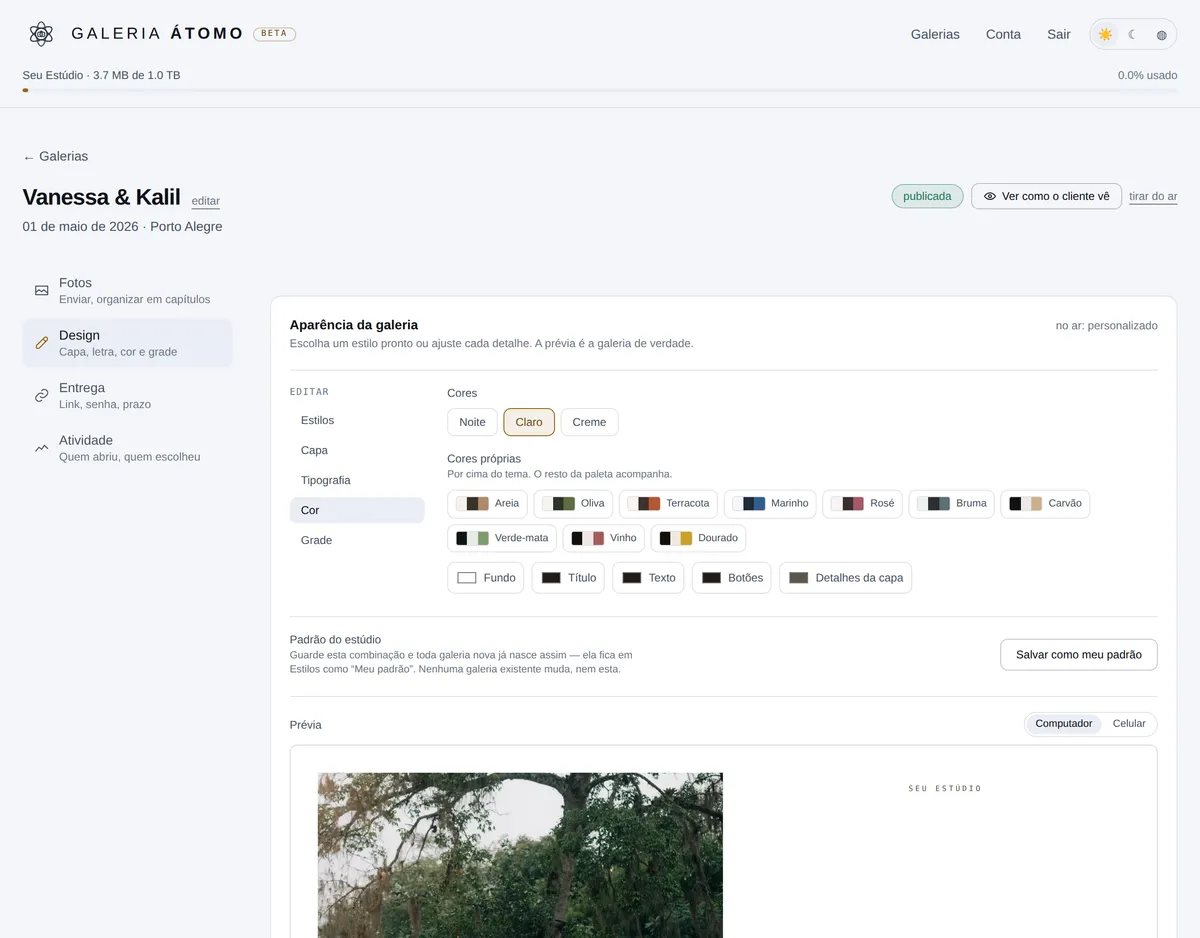
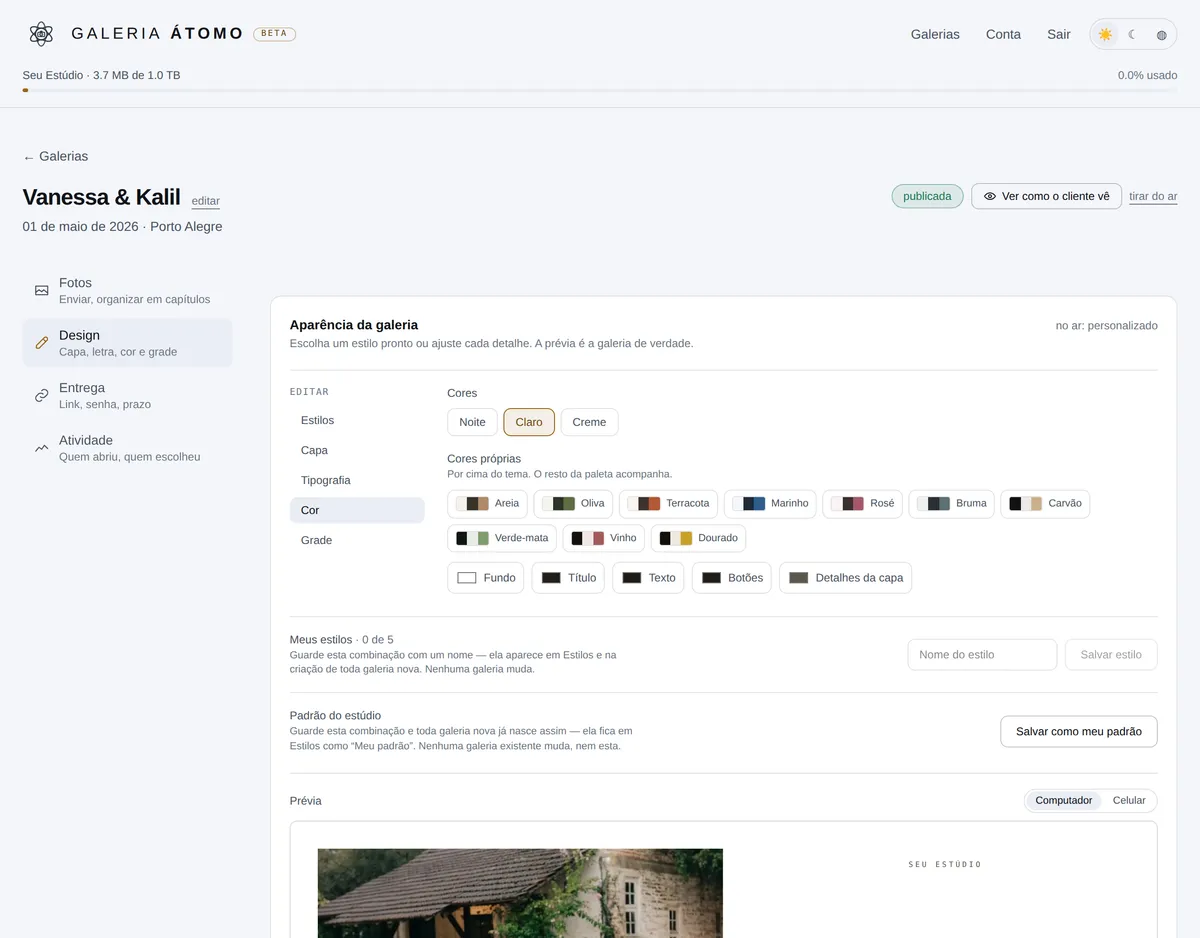
Home: a capa de Vanessa & Kalil passa a ser o retrato na cadeira
O guarda-chuva sai da capa e vai para o lugar 9, entre os retratos — a troca
é só entre os dois lugares, para nenhuma foto trocada pelo admin mudar de
posição. Os prints do painel (design e entrega) foram refeitos com a capa
nova.

Claude-Session: https://claude.ai/code/session_015FWTFqR2s9SVKwAuBmpytA

diff --git a/src/config/home-demonstracao.ts b/src/config/home-demonstracao.ts
@@ -142,9 +142,15 @@ export type IdGaleria = (typeof GALERIAS_DA_HOME)[number];
  */
 const FOTOS_DAS_GALERIAS: Record<IdGaleria, readonly FotoDemo[]> = {
   /* Na ordem do dia: a noiva pronta, a entrada, a cerimônia, a saída, os
-     retratos, a festa. */
+     retratos, a festa.
+
+     A CAPA É O RETRATO NA CADEIRA (29/09/2026). Felipe, com o print da home
+     e a foto: "mude a capa da primeira imagem, para a da segunda". Era o
+     guarda-chuva, que passa para o lugar 9, entre os retratos — a troca é
+     só entre os dois lugares, para nenhuma foto trocada pelo admin em outro
+     lugar mudar de posição. */
   delicada: [
-    ACERVO.guardaChuva,
+    ACERVO.noivosCadeira,
     ACERVO.noivaVeu,
     ACERVO.noivaNaPorta,
     ACERVO.maosNoAltar,
@@ -152,7 +158,7 @@ const FOTOS_DAS_GALERIAS: Record<IdGaleria, readonly FotoDemo[]> = {
     ACERVO.saida,
     ACERVO.ternoMarrom,
     ACERVO.noivosTijolos,
-    ACERVO.noivosCadeira,
+    ACERVO.guardaChuva,
     ACERVO.madrinhas,
     ACERVO.noivoBrinde,
     ACERVO.ramos,
